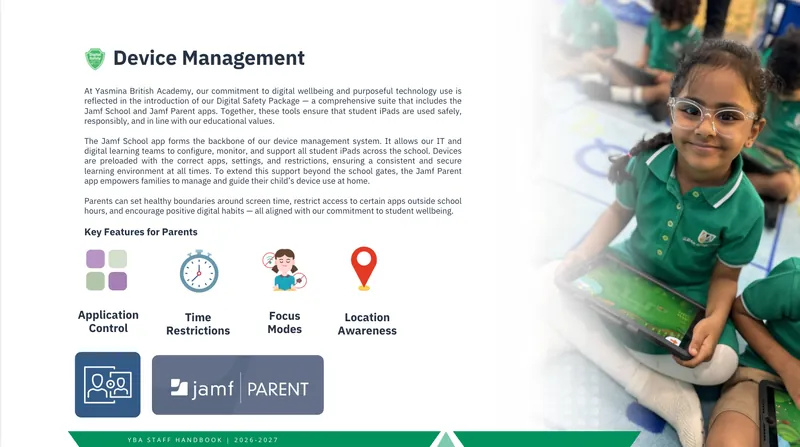
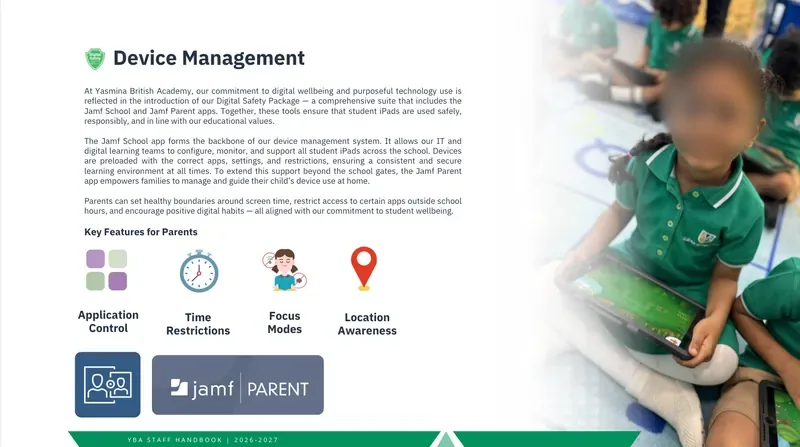
Update media design and section order
Claude-Session: https://claude.ai/code/session_01LCEBkjscZVncihxG9aJfWE

Changed region(s): [[0.8125, 0.0872, 0.9688, 0.3781]]

diff --git a/index.html b/index.html
@@ -548,27 +548,8 @@ dialog::backdrop { background: rgba(14, 15, 18, 0.8); }
     </div>
   </div>
 
-  <!-- 5. Media design -->
-  <section class="wrap" id="media-design" aria-labelledby="media-h">
-    <div class="sec-title">
-      <span class="eyebrow">[ Media Design ]</span>
-      <h2 id="media-h">Media <span class="b">Design</span></h2>
-      <p>I have been commended for exceptional media design skills that balance high production quality with educational purpose. My work spans whole-school professional websites, corporate policy &amp; governance documentation, social media campaigns, brand identity assets and executive-level presentations, as well as visual materials for parent communication and strategic initiatives. On a classroom level, I am hugely passionate about creating AI-generated immersive learning environments for children, to spark creativity and enhance student engagement.</p>
-    </div>
-    <div class="masonry">
-      <div class="mcard video"><video src="video/newsletter-demo.mp4" poster="img/newsletter-poster.webp" muted loop playsinline controls preload="metadata" aria-label="Walkthrough of the whole-school parent newsletter website"></video><b>Community Communication</b><span>Whole-school newsletter built as a website</span></div>
-      <button class="mcard" data-full="img/house-crest.webp" data-cap="YBA house coat of arms, derived from children's drawings"><img src="img/house-crest.webp" alt="YBA house coat of arms"><b>YBA House Coat of Arms</b><span>Derived from children's drawings</span></button>
-      <button class="mcard" data-full="img/immersive-environment.webp" data-cap="AI-generated immersive learning environment"><img src="img/immersive-environment.webp" alt="AI-generated immersive learning environment"><b>AI-Generated Immersive Environment</b><span>Created to spark creativity in class</span></button>
-      <button class="mcard" data-full="img/digital-wellbeing-strategy.webp" data-cap="Digital Wellbeing Strategy 2025–2027"><img src="img/digital-wellbeing-strategy.webp" alt="Digital Wellbeing Strategy document cover"><b>Digital Wellbeing Strategy</b><span>Professional strategy document</span></button>
-      <button class="mcard" data-full="img/immersive-classroom.webp" data-cap="An immersive environment in use in the classroom"><img src="img/immersive-classroom.webp" alt="Students learning with an immersive scene on screen"><b>Immersive Learning in Action</b><span>Used in the classroom</span></button>
-      <button class="mcard" data-full="img/device-management.webp" data-cap="Device management guide for parents"><img src="img/device-management.webp" alt="Device management guide for parents"><b>Parent Communication</b><span>Device management guide</span></button>
-      <button class="mcard" data-full="img/phone-wellbeing.webp" data-cap="Mobile phone and digital watch wellbeing support"><img src="img/phone-wellbeing.webp" alt="Mobile phone and digital watch wellbeing support document"><b>Wellbeing Policy Document</b><span>Mobile phone and digital watch support</span></button>
-      <button class="mcard" data-full="img/class-of-2026.webp" data-cap="Year 6 Class of 2026, digital signage content"><img src="img/class-of-2026.webp" alt="Year 6 Class of 2026 digital signage"><b>Digital Signage Content</b><span>Year 6 Class of 2026</span></button>
-    </div>
-  </section>
-
   <!-- 6. Speaking & recognition -->
-  <section class="wrap" id="speaking" aria-labelledby="speak-h" style="padding-top:0">
+  <section class="wrap" id="speaking" aria-labelledby="speak-h">
     <div class="sec-title">
       <span class="eyebrow">[ Speaking &amp; Recognition ]</span>
       <h2 id="speak-h">Wider Influence <span class="b">Across Region &amp; Beyond</span></h2>
@@ -603,6 +584,22 @@ dialog::backdrop { background: rgba(14, 15, 18, 0.8); }
         <h3>Presidential Palace <span class="b">Invitation</span></h3>
         <p>In recognition of my work in educational innovation throughout the UAE, I was invited to the Presidential Palace for World Teachers Day as part of a select group of educators from across the region. This invitation acknowledged exceptional contributions to education and the wider teaching profession.</p>
       </div>
+    </div>
+  </section>
+
+  <!-- 5. Media design -->
+  <section class="wrap" id="media-design" aria-labelledby="media-h" style="padding-top:0">
+    <div class="sec-title">
+      <span class="eyebrow">[ Media Design ]</span>
+      <h2 id="media-h">Media <span class="b">Design</span></h2>
+      <p>I have been commended for exceptional media design skills that balance high production quality with educational purpose. My work spans whole-school professional websites, corporate policy &amp; governance documentation, social media campaigns, brand identity assets and executive-level presentations, as well as visual materials for parent communication and strategic initiatives. On a classroom level, I am hugely passionate about creating AI-generated immersive learning environments for children, to spark creativity and enhance student engagement.</p>
+    </div>
+    <div class="masonry">
+      <div class="mcard video"><video src="video/newsletter-demo.mp4" poster="img/newsletter-poster.webp" muted loop playsinline controls preload="metadata" aria-label="Walkthrough of the whole-school parent newsletter website"></video><b>Community Communication</b><span>Whole-school newsletter built as a website</span></div>
+      <button class="mcard" data-full="img/digital-wellbeing-strategy.webp" data-cap="Digital Wellbeing Strategy 2025–2027"><img src="img/digital-wellbeing-strategy.webp" alt="Digital Wellbeing Strategy document cover"><b>Digital Wellbeing Strategy</b><span>Professional strategy document</span></button>
+      <button class="mcard" data-full="img/immersive-classroom.webp" data-cap="An immersive environment in use in the classroom"><img src="img/immersive-classroom.webp" alt="Students learning with an immersive scene on screen"><b>Immersive Learning in Action</b><span>Used in the classroom</span></button>
+      <button class="mcard" data-full="img/device-management.webp" data-cap="Digital media: device management guide for parents"><img src="img/device-management.webp" alt="Device management guide for parents"><b>Digital Media</b><span>Device management guide for parents</span></button>
+      <button class="mcard" data-full="img/phone-wellbeing.webp" data-cap="Mobile phone and digital watch wellbeing support"><img src="img/phone-wellbeing.webp" alt="Mobile phone and digital watch wellbeing support document"><b>Wellbeing Policy Document</b><span>Mobile phone and digital watch support</span></button>
     </div>
   </section>
 
